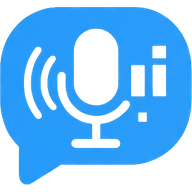
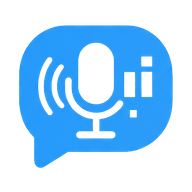
Implementar tela de vídeo, orientação responsiva, atualizar theme-color e regenerar ícones PWA

diff --git a/src/pages/PesquisaPage.tsx b/src/pages/PesquisaPage.tsx
@@ -45,6 +45,7 @@ export const PesquisaPage = ({ pesquisaId, onFinalizar, onCancelar }: PesquisaPa
   const [perguntasFeitas, setPerguntasFeitas] = useState<{ [campoId: string]: boolean }>({});
   const [aceitouVerVideo, setAceitouVerVideo] = useState<boolean | null>(null);
   const [mostrarVideoAgradecimento, setMostrarVideoAgradecimento] = useState(false);
+  const [mostrarTelaVideo, setMostrarTelaVideo] = useState(false);
 
   // Função para adaptar texto das perguntas baseado no gênero
   const adaptarTextoPorGenero = (texto: string, genero: 'masculino' | 'feminino' | null): string => {
@@ -297,6 +298,56 @@ export const PesquisaPage = ({ pesquisaId, onFinalizar, onCancelar }: PesquisaPa
 
   // Tela de Encerramento
   if (mostrarEncerramento) {
+    // Tela de vídeo em tela cheia
+    if (mostrarTelaVideo) {
+      return (
+        <div className="app-container">
+          <main className="main-content" style={{ padding: 0 }}>
+            <div style={{ 
+              display: 'flex', 
+              flexDirection: 'column', 
+              height: '100vh',
+              backgroundColor: '#000'
+            }}>
+              <video
+                controls
+                autoPlay
+                preload="auto"
+                style={{ 
+                  width: 'auto',
+                  maxWidth: '100%',
+                  height: 'calc(100vh - 80px)',
+                  margin: '0 auto',
+                  display: 'block',
+                  objectFit: 'contain'
+                }}
+                src="/lagoa_dos_patos.mov"
+              >
+                Seu navegador não suporta o elemento de vídeo.
+              </video>
+              <div style={{ 
+                padding: '1rem', 
+                backgroundColor: '#fff',
+                height: '80px',
+                display: 'flex',
+                alignItems: 'center',
+                justifyContent: 'center'
+              }}>
+                <button
+                  onClick={handleFinalizar}
+                  className="btn btn-primary btn-large"
+                  style={{ width: '100%', maxWidth: '400px' }}
+                  disabled={finalizarPesquisa.isPending}
+                >
+                  {finalizarPesquisa.isPending ? 'Finalizando...' : 'Finalizar'}
+                </button>
+              </div>
+            </div>
+          </main>
+        </div>
+      );
+    }
+
     return (
       <div className="app-container">
         {/* Header oculto no encerramento */}
@@ -318,69 +369,34 @@ export const PesquisaPage = ({ pesquisaId, onFinalizar, onCancelar }: PesquisaPa
                   Posso te mostrar agora rapidinho?
                 </p>
 
-                {aceitouVerVideo === null && (
-                  <div style={{ display: 'flex', justifyContent: 'flex-end', marginTop: '0.5rem' }}>
-                    <button 
-                      className="btn btn-primary" 
-                      onClick={async () => { 
-                        await pararGravacao();
-                        setAceitouVerVideo(true); 
-                        setMostrarVideoAgradecimento(true); 
-                      }}
-                    >
-                      Mostrar vídeo agora
-                    </button>
-                  </div>
-                )}
-              </div>
-            </div>
-
-            {/* Vídeo de agradecimento (offline-ready) */}
-            {aceitouVerVideo === true && (
-              <div className="card">
-                {!mostrarVideoAgradecimento ? (
+                {/* Botões lado a lado */}
+                <div style={{ 
+                  display: 'grid', 
+                  gridTemplateColumns: '1fr 1fr', 
+                  gap: '1rem', 
+                  marginTop: '1.5rem' 
+                }}>
+                  <button 
+                    className="btn btn-secondary" 
+                    onClick={async () => { 
+                      await pararGravacao();
+                      setMostrarTelaVideo(true);
+                    }}
+                  >
+                    Mostrar vídeo
+                  </button>
                   <button
                     onClick={async () => {
                       await pararGravacao();
-                      setMostrarVideoAgradecimento(true);
+                      handleFinalizar();
                     }}
-                    className="btn btn-secondary w-full"
+                    className="btn btn-primary"
+                    disabled={finalizarPesquisa.isPending}
                   >
-                    Assistir vídeo de agradecimento
+                    {finalizarPesquisa.isPending ? 'Finalizando...' : 'Finalizar'}
                   </button>
-                ) : (
-                  <div>
-                    <video
-                      controls
-                      preload="auto"
-                      style={{ width: '100%', borderRadius: '12px' }}
-                      src="/agradecimento.mp4"
-                      onLoadedMetadata={(e) => {
-                        const videoElement = e.currentTarget;
-                        videoElement.requestFullscreen?.().catch(err => {
-                          console.log('Não foi possível entrar em tela cheia:', err);
-                        });
-                      }}
-                    >
-                      Seu navegador não suporta o elemento de vídeo.
-                    </video>
-                    <p style={{ fontSize: '0.875rem', color: '#6b7280', marginTop: '8px' }}>
-                      Dica: o vídeo é salvo para uso offline após a primeira visualização. Se não carregar,
-                      conecte-se à internet uma vez para baixar.
-                    </p>
-                  </div>
-                )}
+                </div>
               </div>
-            )}
-
-            <div className="card">
-              <button
-                onClick={handleFinalizar}
-                className="btn btn-primary btn-large w-full"
-                disabled={finalizarPesquisa.isPending}
-              >
-                {finalizarPesquisa.isPending ? 'Finalizando...' : 'Finalizar'}
-              </button>
             </div>
           </div>
         </main>

diff --git a/src/App.css b/src/App.css
@@ -5,6 +5,45 @@
   box-sizing: border-box;
 }
 
+/* ==================== ORIENTAÇÃO RESPONSIVA ==================== */
+/* Celulares: orientação vertical (portrait) */
+@media (max-width: 767px) and (orientation: landscape) {
+  body::before {
+    content: "Por favor, gire seu dispositivo para a posição vertical";
+    position: fixed;
+    top: 0;
+    left: 0;
+    right: 0;
+    bottom: 0;
+    background: #1a9bff;
+    color: white;
+    display: flex;
+    align-items: center;
+    justify-content: center;
+    z-index: 999999;
+    font-size: 1.2rem;
+    text-align: center;
+    padding: 2rem;
+  }
+}
+
+/* Tablets e maiores: orientação horizontal (landscape) preferencial */
+@media (min-width: 768px) and (orientation: portrait) {
+  body::after {
+    content: "Para melhor experiência, gire seu dispositivo para a posição horizontal";
+    position: fixed;
+    bottom: 0;
+    left: 0;
+    right: 0;
+    background: #6C757D;
+    color: white;
+    padding: 0.5rem;
+    z-index: 999998;
+    font-size: 0.875rem;
+    text-align: center;
+  }
+}
+
 body {
   font-family: 'Nunito', -apple-system, BlinkMacSystemFont, 'Segoe UI', Roboto, Oxygen, Ubuntu, Cantarell, sans-serif;
   background: #ffffff;

diff --git a/vite.config.ts b/vite.config.ts
@@ -7,12 +7,12 @@ export default defineConfig({
     react(),
     VitePWA({
       registerType: 'autoUpdate',
-      includeAssets: ['favicon.ico', 'logo.png', 'apple-touch-icon.png', 'agradecimento.mp4'],
+      includeAssets: ['favicon.ico', 'logo.png', 'apple-touch-icon.png', 'lagoa_dos_patos.mov'],
           manifest: {
             name: 'OpineAi - Sistema de Pesquisa de Campo',
             short_name: 'OpineAi',
             description: 'Sistema de pesquisa de campo que funciona offline',
-  theme_color: '#1a9bff',
+  theme_color: '#6C757D',
         background_color: '#ffffff',
         display: 'standalone',
         orientation: 'any',
@@ -44,7 +44,7 @@ export default defineConfig({
         ]
       },
       workbox: {
-        globPatterns: ['**/*.{js,css,html,ico,png,svg,mp4,webm,ogg}'],
+        globPatterns: ['**/*.{js,css,html,ico,png,svg,mp4,webm,ogg,mov}'],
         runtimeCaching: [
           {
             urlPattern: /^https:\/\/.*\.supabase\.co\/.*/i,

diff --git a/index.html b/index.html
@@ -5,17 +5,8 @@
     <link rel="icon" type="image/png" href="/logo.png" />
     <meta name="viewport" content="width=device-width, initial-scale=1.0, maximum-scale=5.0, user-scalable=yes" />
     
-    <!-- Forçar orientação paisagem para tablets -->
-    <meta name="screen-orientation" content="landscape" />
-    <meta name="x5-orientation" content="landscape" />
-    
-    <!-- Fontes: Nunito -->
-    <link rel="preconnect" href="https://fonts.googleapis.com">
-    <link rel="preconnect" href="https://fonts.gstatic.com" crossorigin>
-    <link href="https://fonts.googleapis.com/css2?family=Nunito:wght@300;400;600;700;800&display=swap" rel="stylesheet">
-    
     <!-- PWA Meta Tags -->
-  <meta name="theme-color" content="#1a9bff" />
+  <meta name="theme-color" content="#6C757D" />
     <meta name="description" content="Sistema de pesquisa de campo porta a porta que funciona offline" />
     
     <!-- PWA Capability -->

diff --git a/src/components/CheckboxQuestion.tsx b/src/components/CheckboxQuestion.tsx
@@ -83,7 +83,7 @@ export default function CheckboxQuestion({
               listStyle: 'none',
               padding: 0
             }}>
-              {campo.opcoes.map((opcao, index) => (
+              {campo.opcoes?.map((opcao, index) => (
                 <li key={index} className="option-item" style={{
                   padding: '0.75rem 1rem',
                   backgroundColor: '#f3f4f6',
@@ -91,7 +91,7 @@ export default function CheckboxQuestion({
                   textAlign: 'center',
                   fontSize: '0.9rem',
                   // Se for a 5ª opção (index 4) de uma lista de 5 opções, ocupar toda a largura
-                  gridColumn: campo.opcoes.length === 5 && index === 4 ? '1 / -1' : 'auto'
+                  gridColumn: campo.opcoes?.length === 5 && index === 4 ? '1 / -1' : 'auto'
                 }}>
                   {opcao}
                 </li>

diff --git a/generate-icons.js b/generate-icons.js
@@ -20,10 +20,21 @@ Promise.all(
     const outputFile = path.join(outputDir, `pwa-${size}x${size}.png`);
     
     try {
+      // Adiciona padding de 10% do tamanho
+      const padding = Math.floor(size * 0.1);
+      const iconSize = size - (padding * 2);
+      
       await sharp(inputFile)
-        .resize(size, size, {
+        .resize(iconSize, iconSize, {
           fit: 'contain',
-          background: { r: 255, g: 255, b: 255, alpha: 0 }
+          background: { r: 0, g: 0, b: 0, alpha: 0 }
+        })
+        .extend({
+          top: padding,
+          bottom: padding,
+          left: padding,
+          right: padding,
+          background: { r: 255, g: 255, b: 255, alpha: 1 } // Fundo branco
         })
         .png()
         .toFile(outputFile);
